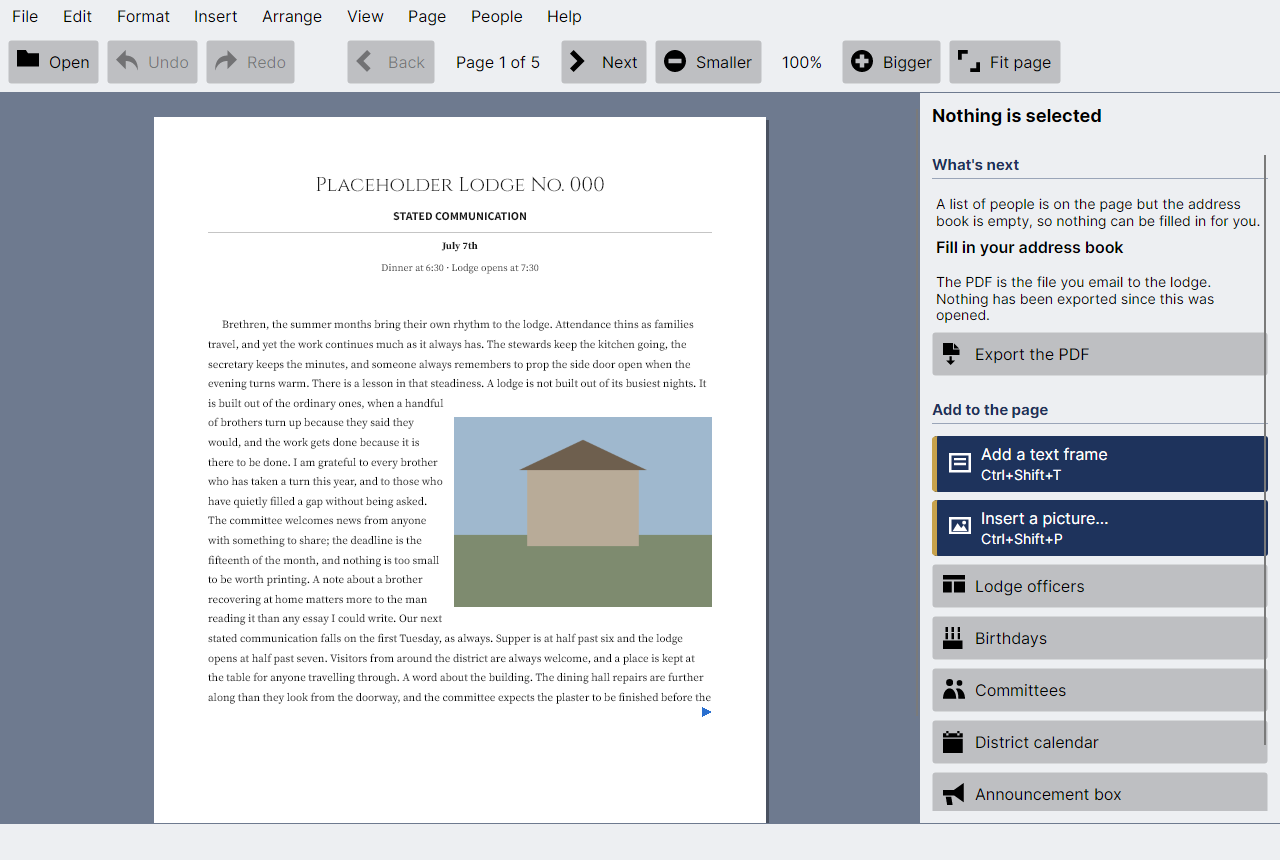
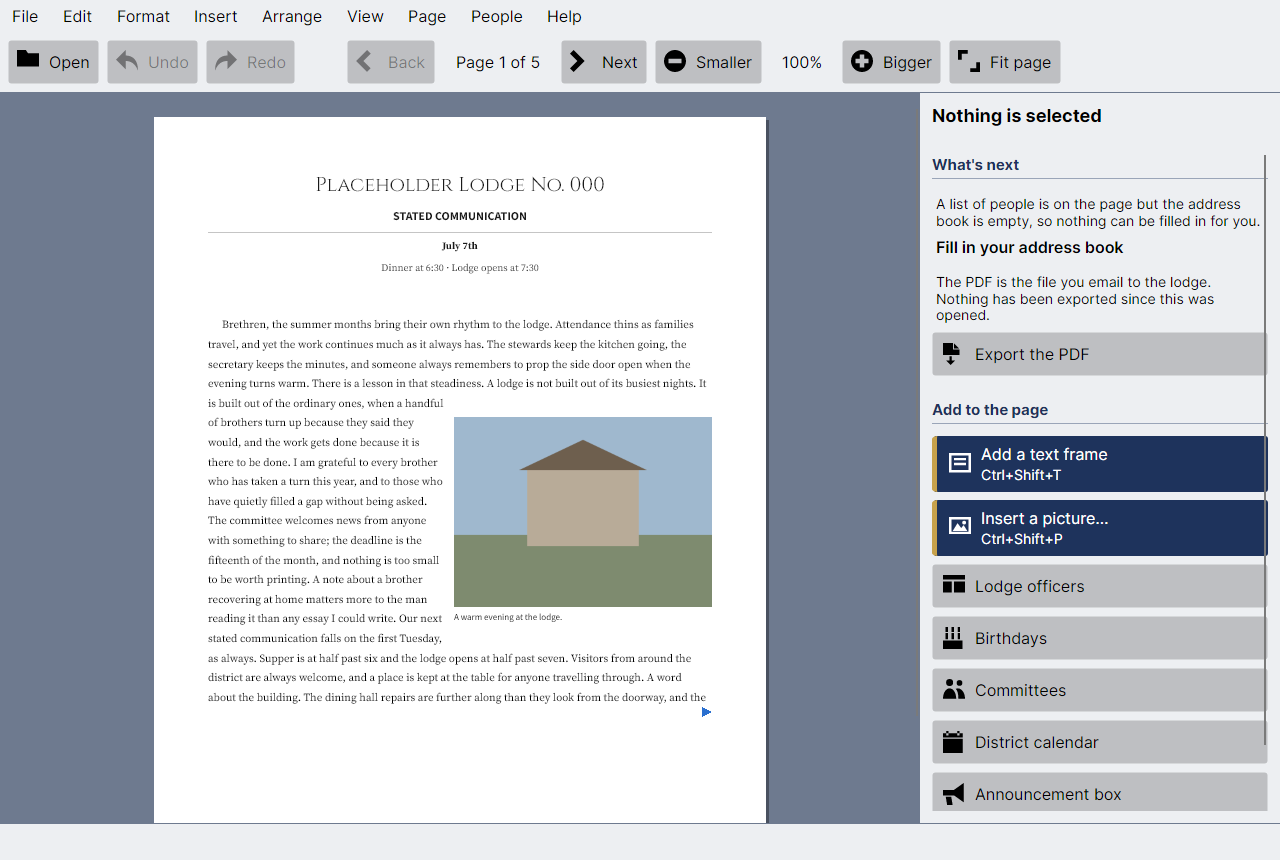
docs(M18): re-bake five screenshots, and stop the panel repeating itself
Four images moved because the app did: the caption now prints under the
cover photograph in both page shots, the adjust window has gained the
automatic-brighten box and the four trim sliders, and the picture panel has
gained the four new commands. photo-template-placeholders.png is new — the
photo template's empty frame asking to be filled, which is the milestone in
one picture.

Taking that shot showed the panel printing the SAME refusal sentence four
times under four blocked picture commands: four times the reading for one
fact, on a panel built for people who find reading it work. A run of
buttons blocked for the same reason now prints that reason once. Every
button still carries it in HelpText, so a screen-reader user hears it on
whichever one they land on — the sentence is hidden from a reader who has
just read it, and from nobody else.

Changed region(s): [[0.1562, 0.6953, 0.5625, 0.8163]]

diff --git a/src/TrestleBoard.App/Actions/ActionPanel.cs b/src/TrestleBoard.App/Actions/ActionPanel.cs
@@ -162,15 +162,25 @@ internal sealed class ActionPanel : Border
         }
 
         ActionGroup? currentGroup = null;
+        string? lastReasonShown = null;
         foreach (ActionOffer offer in offers)
         {
             if (currentGroup != offer.Action.Group)
             {
                 currentGroup = offer.Action.Group;
+                lastReasonShown = null;
                 _content.Children.Add(GroupHeading(ActionCatalog.DescribeGroup(currentGroup.Value)));
             }
 
-            _content.Children.Add(BuildOffer(offer, context, invoke));
+            // M18: four picture commands blocked for the SAME reason printed that reason four
+            // times, which is four times the reading for one fact. The sentence is printed once
+            // per run of buttons that share it; every button still carries it in its HelpText, so
+            // a screen-reader user hears the reason on whichever one they land on.
+            bool repeated = !offer.IsAvailable
+                && string.Equals(offer.Availability.Reason, lastReasonShown, StringComparison.Ordinal);
+            lastReasonShown = offer.IsAvailable ? null : offer.Availability.Reason;
+
+            _content.Children.Add(BuildOffer(offer, context, invoke, repeated));
         }
 
         if (_content.Children.Count == 0)
@@ -259,7 +269,16 @@ internal sealed class ActionPanel : Border
     /// One offered action. A blocked one keeps its button and gains a sentence saying why — the
     /// button is not disabled, so a screen reader still reaches it and pressing it explains itself.
     /// </summary>
-    private static Control BuildOffer(ActionOffer offer, ActionContext context, Action<string, Control?> invoke)
+    /// <param name="reasonAlreadyShown">
+    /// The button above this one is blocked for the same reason and has already printed it. The
+    /// sentence is left off here; it stays in <c>HelpText</c>, so nothing is hidden from a screen
+    /// reader — only from a reader who has just read it.
+    /// </param>
+    private static Control BuildOffer(
+        ActionOffer offer,
+        ActionContext context,
+        Action<string, Control?> invoke,
+        bool reasonAlreadyShown = false)
     {
         // The gesture is a second, quieter line rather than a suffix on the title. That removes
         // fourteen to sixteen characters from most buttons and changes nothing a screen reader
@@ -276,7 +295,7 @@ internal sealed class ActionPanel : Border
             offer.IsAvailable ? offer.Action.ShortDescription : offer.Availability.Reason);
         button.Click += (_, _) => invoke(offer.Action.Id, button);
 
-        if (offer.IsAvailable)
+        if (offer.IsAvailable || reasonAlreadyShown)
         {
             return button;
         }

diff --git a/tools/TrestleBoard.Screenshots/ShotList.cs b/tools/TrestleBoard.Screenshots/ShotList.cs
@@ -192,10 +192,11 @@ internal static class ShotList
             }),
 
         new("fix-photo", ShotKind.Dialog, null,
-            "Behind the one-click Fix photo button: three large sliders that apply as you drag.",
-            "The photograph adjustment window: three large sliders for brighter or darker, more or "
-            + "less contrast, and more or less colour, above buttons to turn the picture a quarter "
-            + "turn or start over.",
+            "Behind the one-click Fix photo button: large sliders that apply as you drag.",
+            "The photograph adjustment window: large sliders for brighter or darker, more or "
+            + "less contrast and more or less colour, a box to brighten and balance the picture "
+            + "automatically, and four more sliders for trimming each edge, above buttons to turn "
+            + "the picture a quarter turn or start over.",
             stage =>
             {
                 MainWindow window = stage.OpenEditor();
@@ -205,6 +206,28 @@ internal static class ShotList
                 PhotoAdjustWindow adjust = stage.OpenDialog(
                     new PhotoAdjustWindow(photos, CoverPhotoBlockId));
                 return Task.FromResult(Stage.Shoot(adjust));
+            }),
+
+        // M18. The photo template shipped three of these frames from M9 and no command in the app
+        // could put a picture in one; this is the shot of them asking to be filled.
+        new("photo-template-placeholders", ShotKind.Window, "M18",
+            "A photo page waiting for its photograph, and saying so.",
+            "The editor showing a page of the six-page photo template. A large empty picture frame "
+            + "carries the words \"Double-click to choose a picture\", and the panel beside it is "
+            + "headed \"A photo is selected\" with \"Put a picture here…\" at the top of what can "
+            + "be done to it.",
+            stage =>
+            {
+                MainWindow window = stage.OpenEditor();
+                window.OpenTemplate("six-page-photos");
+                if (window.PhotosForTest?.FirstPlaceholder is { } placeholder)
+                {
+                    window.GoToPage(placeholder.PageIndex);
+                    window.FramesForTest?.Select(placeholder.BlockId);
+                    window.RefreshActions();
+                }
+
+                return Task.FromResult(Stage.Shoot(window));
             }),
 
         new("settings", ShotKind.Dialog, null,

diff --git a/tools/TrestleBoard.Screenshots/MilestoneGate.cs b/tools/TrestleBoard.Screenshots/MilestoneGate.cs
@@ -21,6 +21,8 @@ internal static class MilestoneGate
                 "the lodge address book"),
             ["M14"] = ("TrestleBoard.Layout.Fonts.BundledFontCatalog, TrestleBoard.Layout",
                 "the font catalog"),
+            ["M18"] = ("TrestleBoard.Core.Commands.ReplaceImageCommand, TrestleBoard.Core",
+                "putting a picture into a frame that is already on the page"),
         };
 
     /// <summary>

diff --git a/docs/images/README.md b/docs/images/README.md
@@ -18,7 +18,7 @@ regeneration adds a full copy to the repository's history:
 dotnet run --project tools/TrestleBoard.Screenshots -- --only font-picker
 ```
 
-Last regenerated: **2026-07-27**, TrestleBoard **0.1.0**.
+Last regenerated: **2026-07-28**, TrestleBoard **0.1.0**.
 That date covers the run that last touched this file; a `--only` run rewrites it
 while leaving the other images as they were, which is the honest reading of it.
 
@@ -122,11 +122,19 @@ Or edit the whole list at once, in big rows. (one dialog on its own)
 
 ### `fix-photo.png`
 
-Behind the one-click Fix photo button: three large sliders that apply as you drag. (one dialog on its own)
+Behind the one-click Fix photo button: large sliders that apply as you drag. (one dialog on its own)
 
 `dotnet run --project tools/TrestleBoard.Screenshots -- --only fix-photo`
 
-![The photograph adjustment window: three large sliders for brighter or darker, more or less contrast, and more or less colour, above buttons to turn the picture a quarter turn or start over.](fix-photo.png)
+![The photograph adjustment window: large sliders for brighter or darker, more or less contrast and more or less colour, a box to brighten and balance the picture automatically, and four more sliders for trimming each edge, above buttons to turn the picture a quarter turn or start over.](fix-photo.png)
+
+### `photo-template-placeholders.png`
+
+A photo page waiting for its photograph, and saying so. (the whole editor window, 1280×860, Light, 100% scale)
+
+`dotnet run --project tools/TrestleBoard.Screenshots -- --only photo-template-placeholders`
+
+![The editor showing a page of the six-page photo template. A large empty picture frame carries the words "Double-click to choose a picture", and the panel beside it is headed "A photo is selected" with "Put a picture here…" at the top of what can be done to it.](photo-template-placeholders.png)
 
 ### `settings.png`
 
